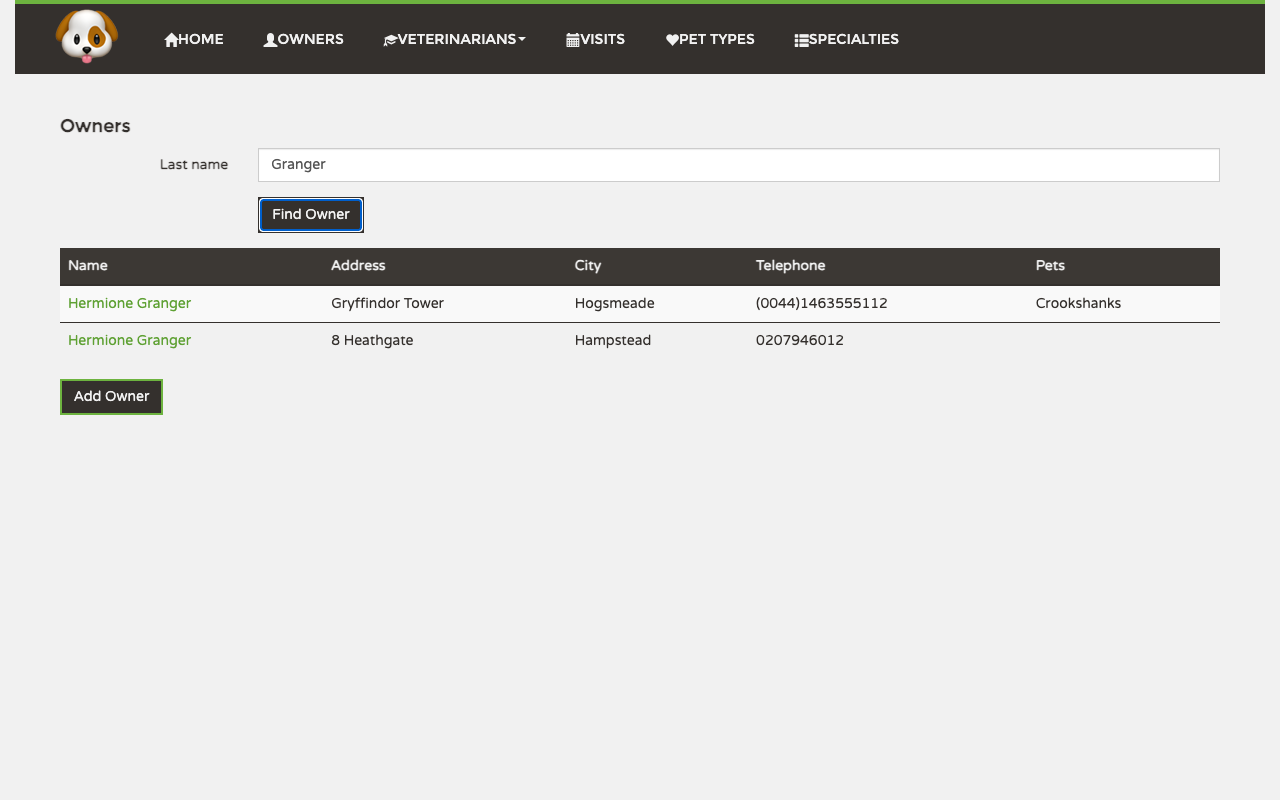
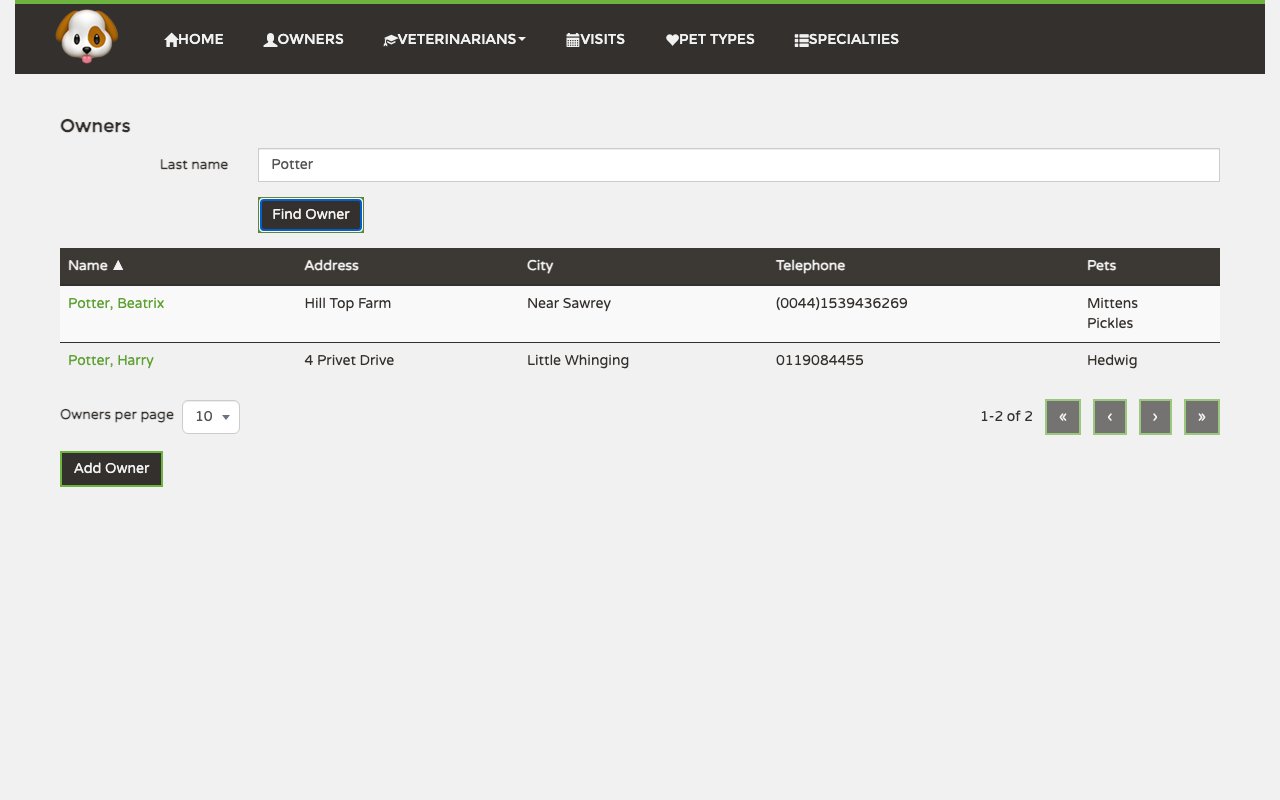
Manualul utilizatorului: ecranul de owneri, paginat
De ce: documentatia pentru utilizator descrie ce vede omul pe ecran. Screenshot-urile
vechi aratau lista intreaga, fara paginare si fara sortare: le refacem odata cu
feature-ul, nu "candva".

diff --git a/docs/user-manual/manual.md b/docs/user-manual/manual.md
@@ -44,17 +44,21 @@ The Owners area is where most daily work starts. Here you find a pet owner, regi
 ![](screenshots/owners-list.png)
 
 1. Click *Owners* in the top menu.
-2. The table lists every owner with their name, address, city, telephone number and the names of their pets.
+2. The table shows ten owners at a time, each as *Last name, First name*, with address, city, telephone number and the names of their pets.
 3. Click an owner's name to open their record.
-4. The *Add Owner* button at the bottom of the list opens the form for a new owner.
+4. Under the table, *Owners per page* offers 5, 10 or 20. The range (for example *1-10 of 26*) tells you where you are among all owners; use the « ‹ › » buttons to jump to the first, previous, next or last page. Buttons that cannot move you any further are greyed out.
+5. Click *Name* or *City* in the table header to sort **all** owners by that column — not just the page on screen. The grey ⇅ marks a sortable column. The first click sorts A→Z (▲); click again to reverse it (▼). Names and cities follow the Romanian alphabet and ignore capital letters. The other columns cannot be sorted.
+6. The address bar always reflects what you see (page, size, sort and search), so you can bookmark or share a link to a particular view. Opening an owner and clicking the browser's *Back* button brings you back to the same view.
+7. The *Add Owner* button under the table opens the form for a new owner.
 
 ### Finding an owner
 
 ![](screenshots/owners-search.png)
 
-1. Type the owner's last name (or just its first few letters) into the *Last name* box above the table.
-2. Click *Find Owner*. The table now shows only the matching owners.
-3. To see everyone again, empty the box and click *Find Owner* once more.
+1. Type the owner's last name (or just its first few letters) into the *Last name* box above the table. Capital letters matter: *Pot* finds *Potter*, *pot* does not.
+2. Press Enter or click *Find Owner*. The table now shows only the matching owners, from the first page, keeping the sort and page size you chose. Until you press Enter or click the button, nothing changes on screen.
+3. To see everyone again, empty the box and press Enter or click *Find Owner* once more.
+4. If nobody matches, the page says so. If the list cannot be loaded, an error appears with a *Retry* button that asks again with the same search.
 
 ### Creating a new owner
 
